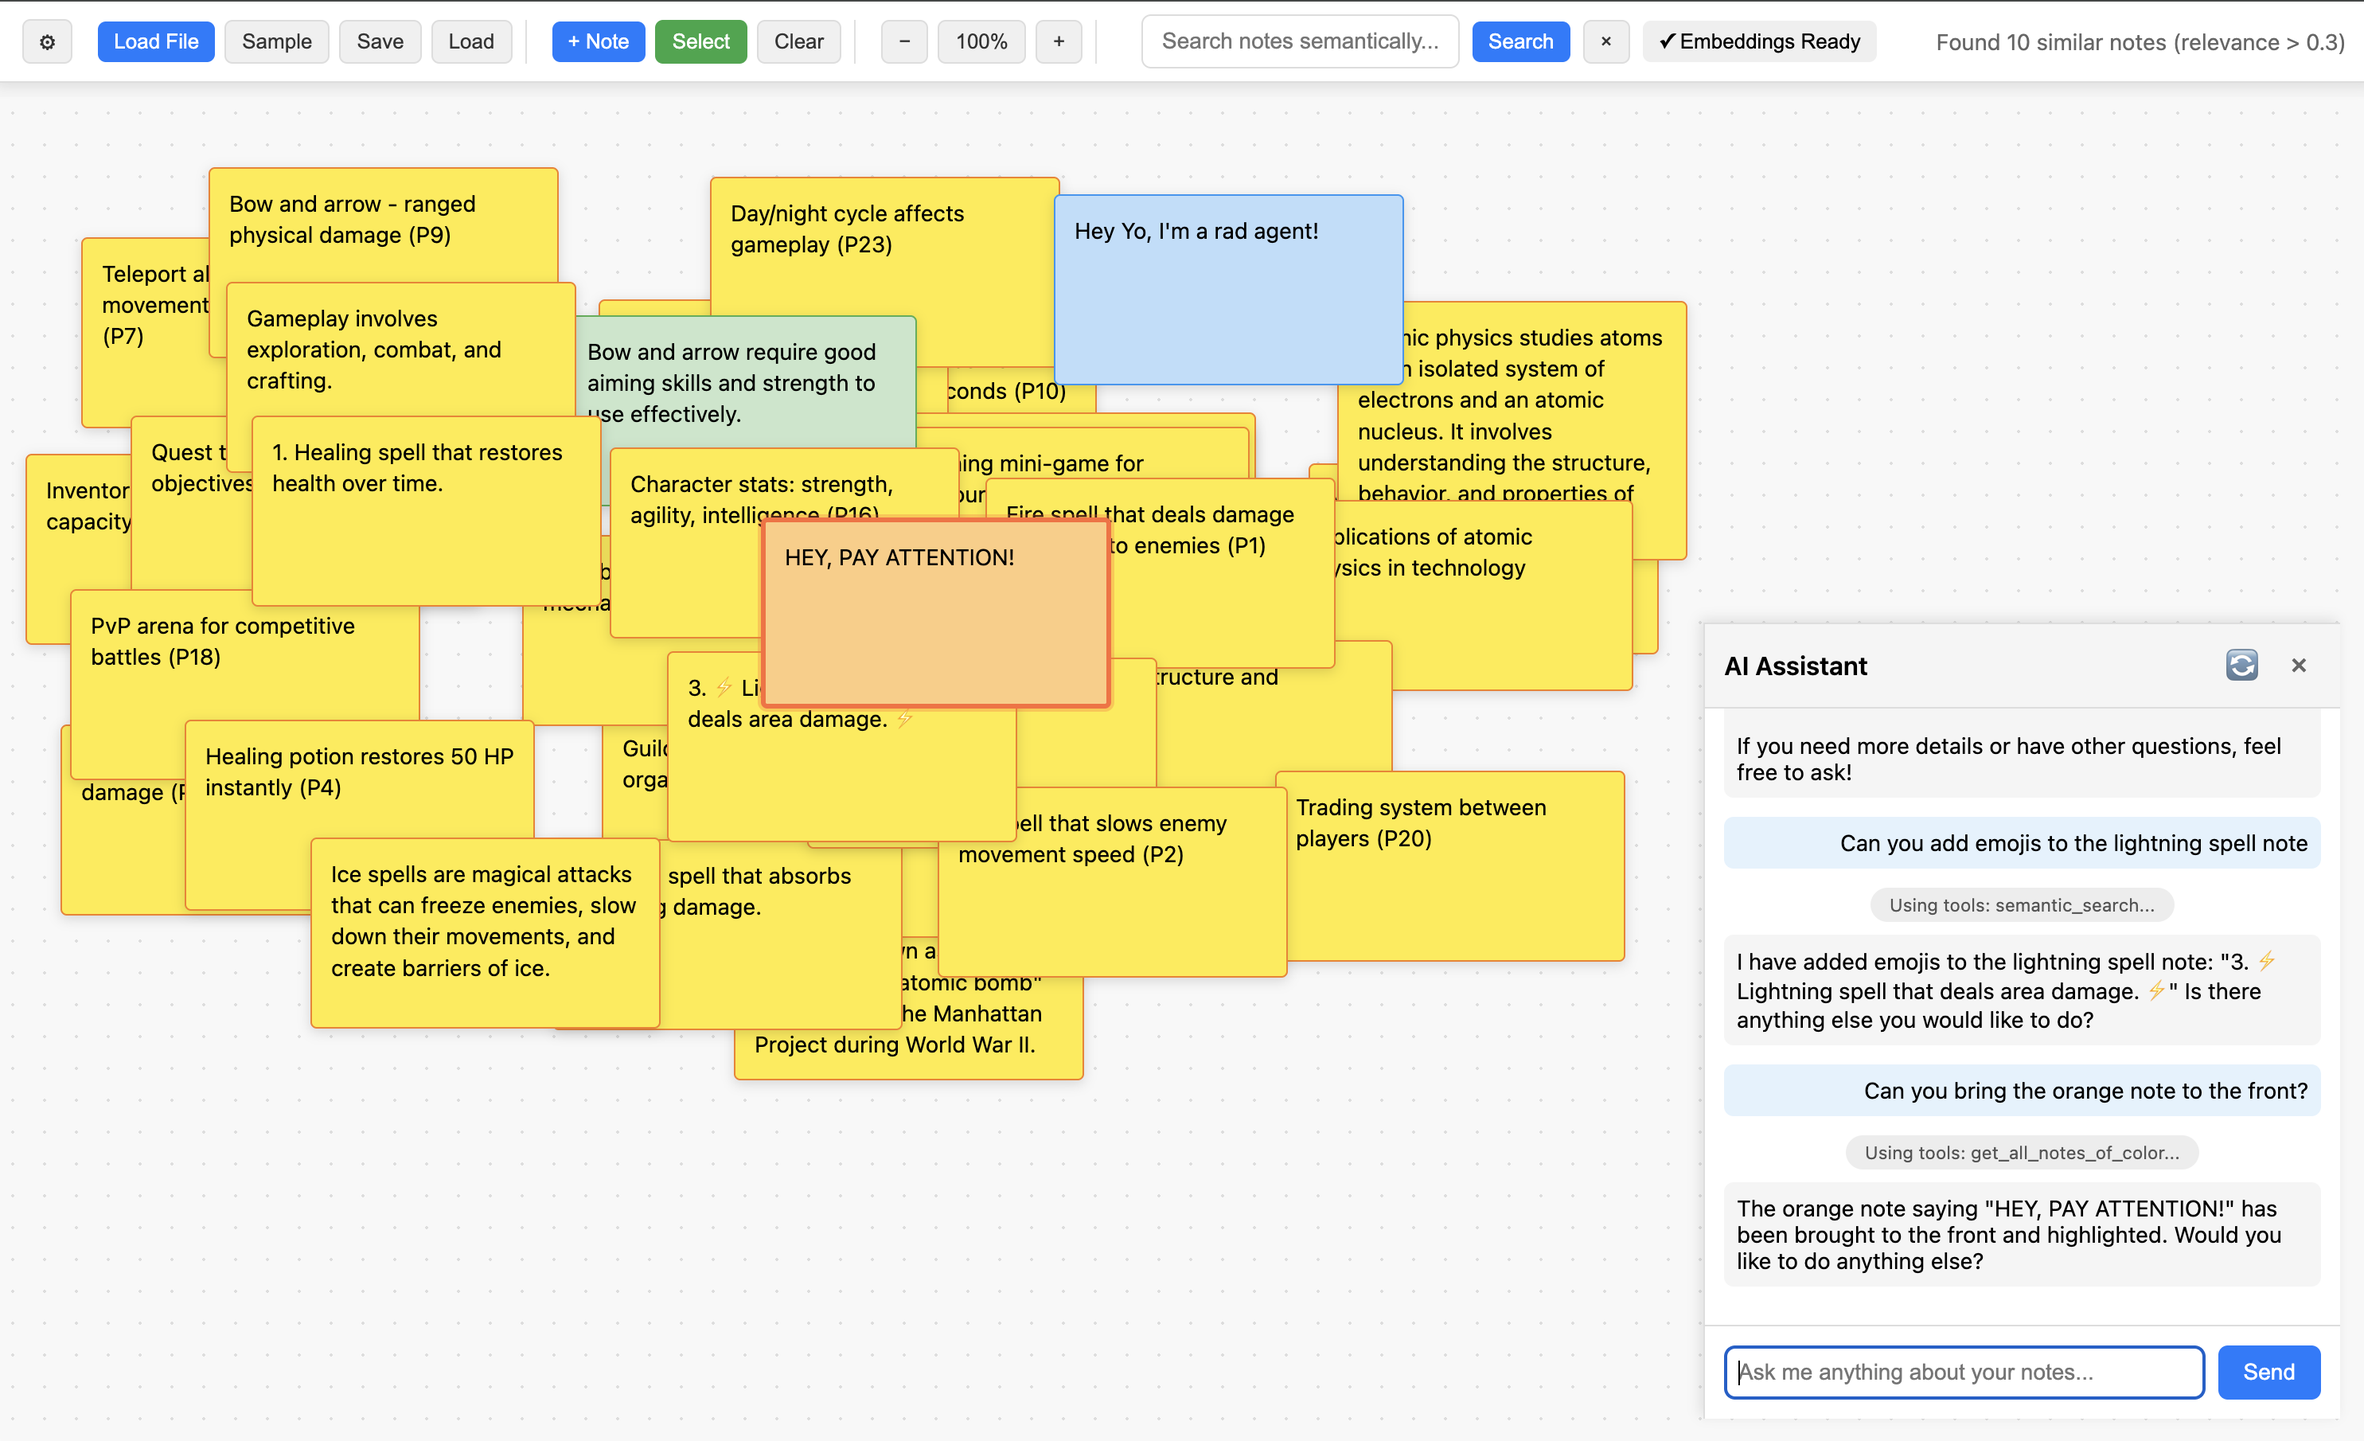
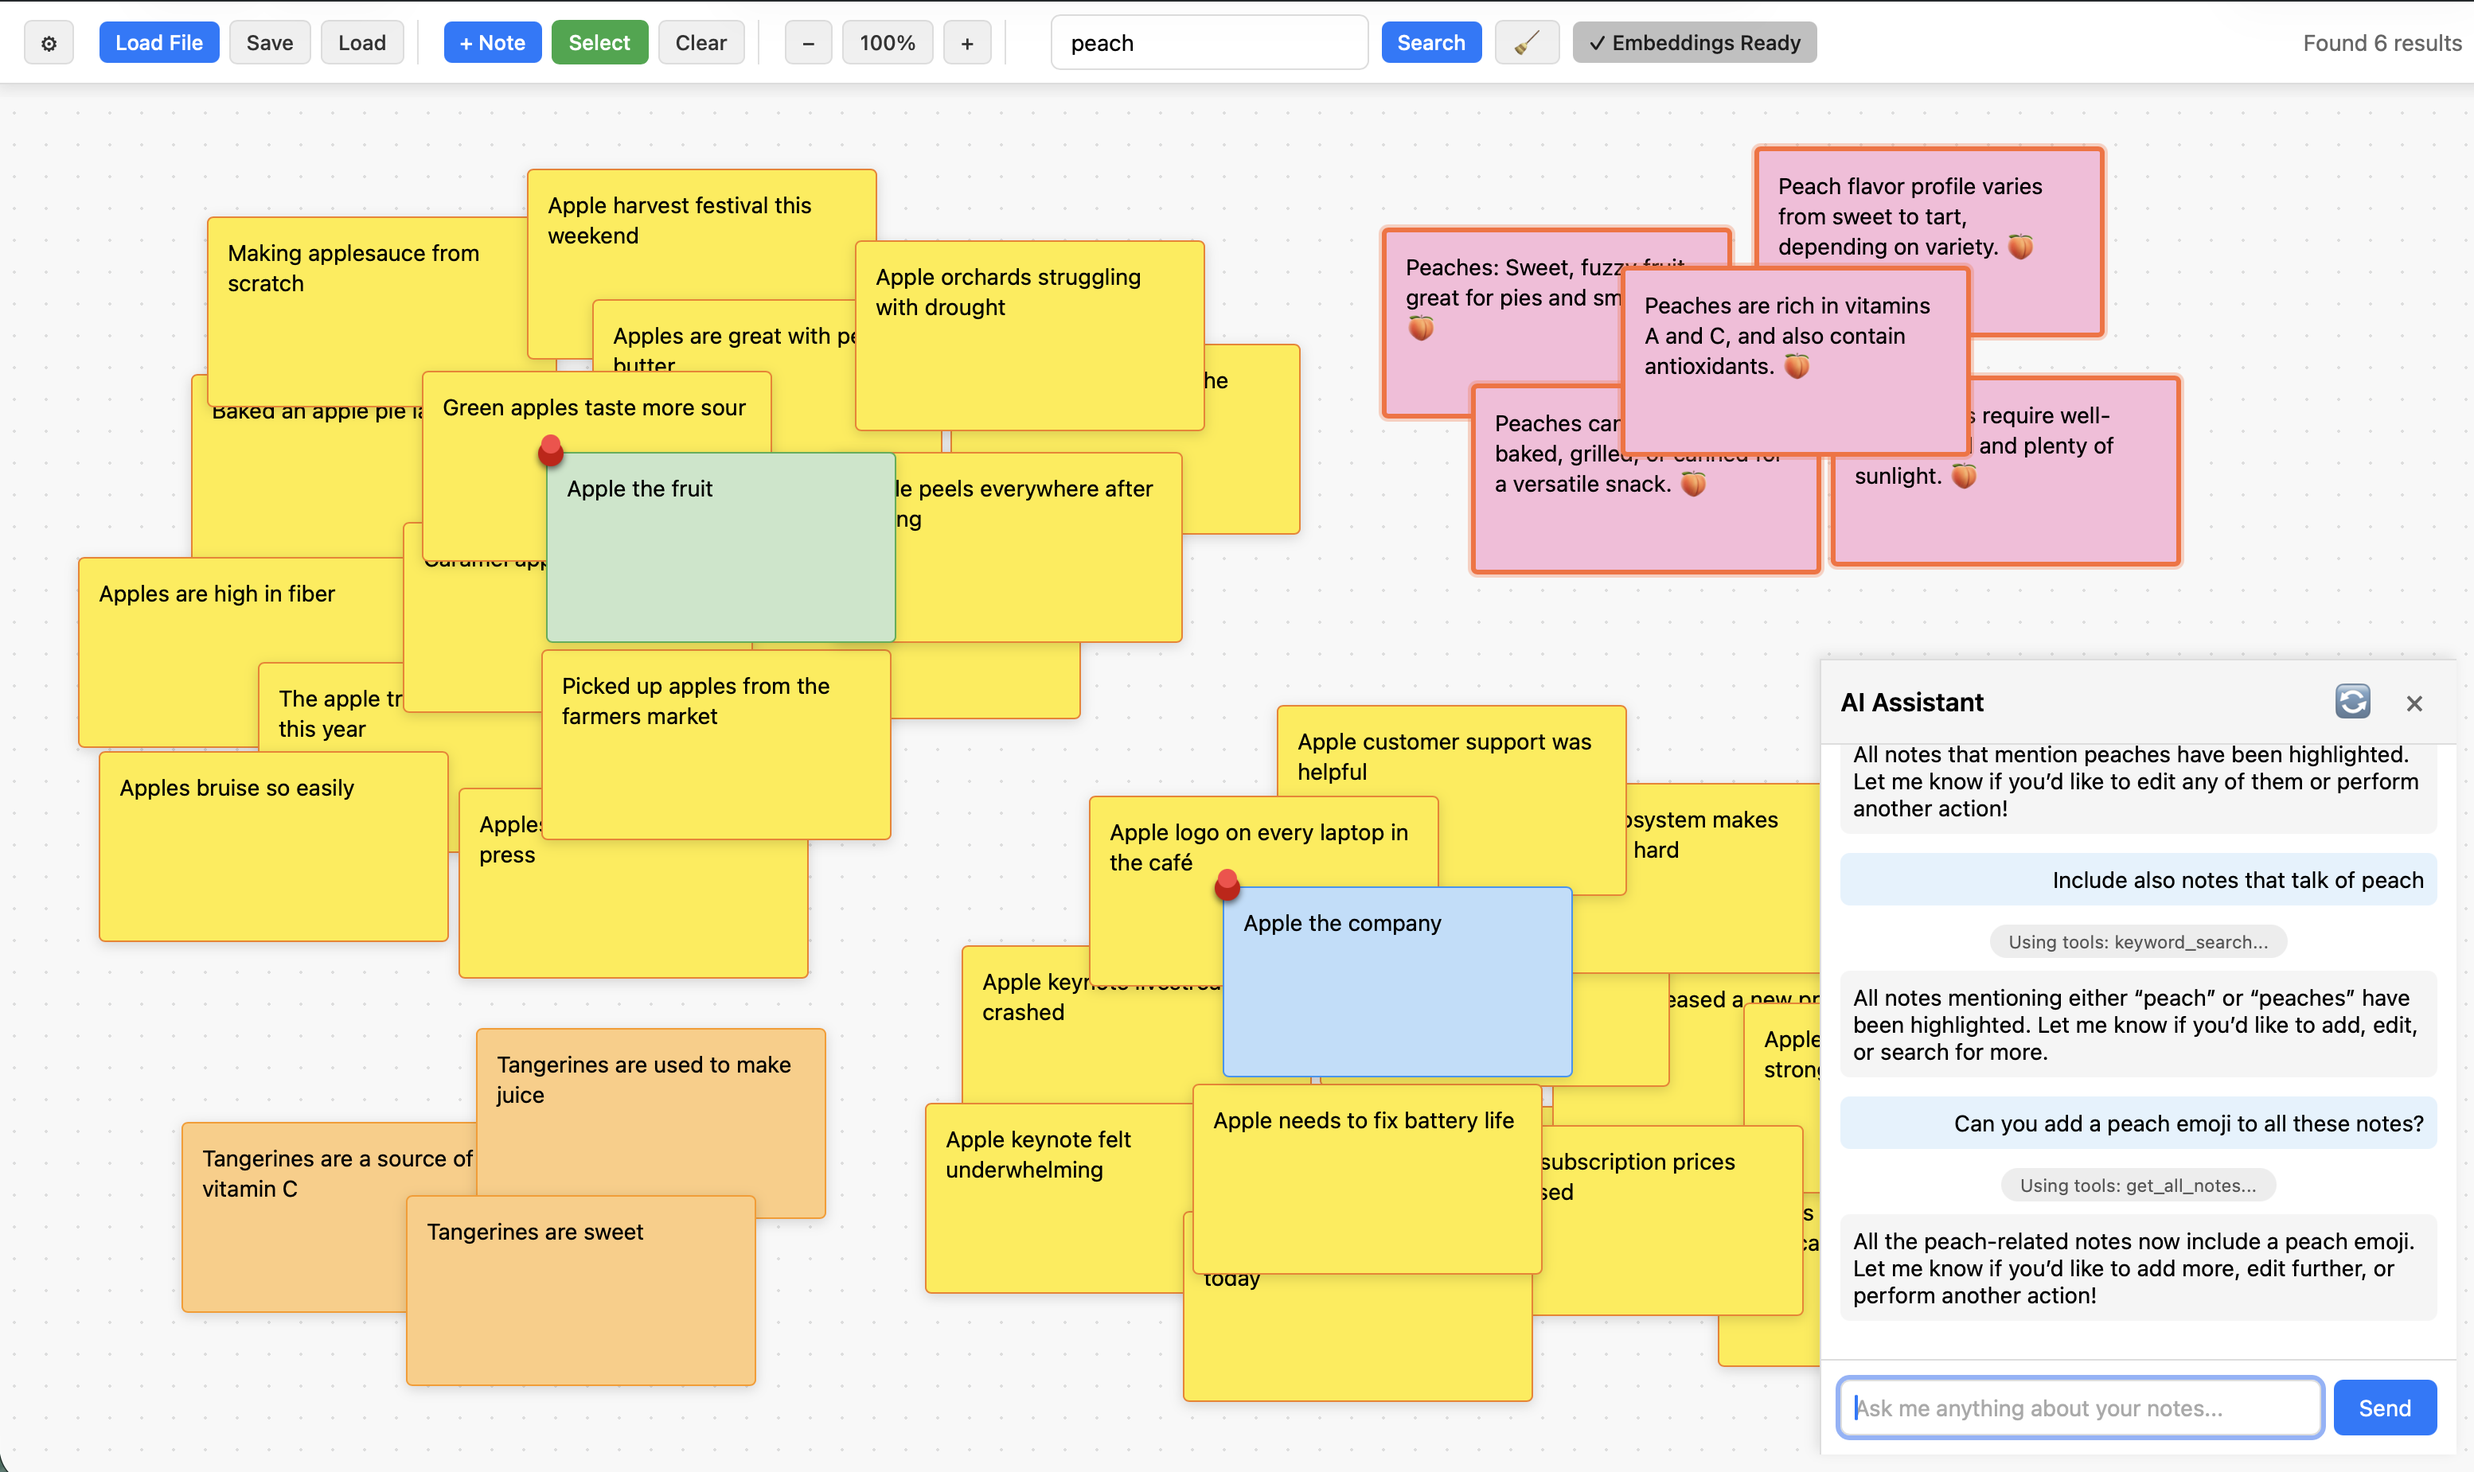
Revise README images

diff --git a/README.md b/README.md
@@ -36,7 +36,43 @@ in the terminal, then restarting Ollama and serving it via `ollama serve`.
 
 To use Ollama, you then must install specific models. Ollama also hosts embedding models, like `bge-large`. For more info, see the [Ollama documentation](https://ollama.com/search).
 
-## How Can I Add Notes from Files?
+## Key Features
+
+**Board Interaction**
+- **Auto-save**: Work is automatically saved to localStorage every 60 seconds
+- **Zoom & Pan**: Navigate large canvases with zoom controls (25%-200%) and click-drag panning
+- **Drag-and-drop**: Load text files by dragging them directly onto the canvas
+- **Inline Editing**: Double-click any note to edit it directly on the board
+- **Pin Notes**: Pin important notes to keep them at the top of the visual stack
+
+**Note Management**
+- **Six Colors**: Choose from yellow, pink, blue, green, orange, or purple for visual coding
+- **Selection Mode**: Toggle selection mode to drag-select multiple notes
+- **Export/Import from JSON**: Simple JSON format to save and load files
+- **Participant IDs**: When notes end in participant IDs like (P1) or (P2), participant IDs for all selected notes will appear the status bar (useful when trying to see how 'representative' a cluster is when qualitative coding)
+
+**Semantic Search**
+- **Hybrid Retrieval**: Combines BM25 keyword matching with embedding-based semantic similarity
+- **Three Embedding Providers**: Choose between Transformers.js (local), Ollama (local), or OpenAI (cloud)
+- **Visual Results**: Search results panel shows ranked matches with click-to-focus navigation
+- **Configurable**: Adjust BM25 weight, relevance thresholds, and minimum semantic relevance in settings
+
+**AI Assistant (optional)**
+- **Tool-Calling Agent**: AI can perform actions like searching, creating, editing, and removing notes (note: it cannot cluster them automatically)
+- **Context-Aware**: AI has full access to board state and can use search features
+- **Flexible Backend**: Use Ollama for local/private processing or OpenAI for more powerful responses
+
+## Customize semantic search and AI assistant backends
+
+Splat supports semantic search in the browser through HF Transformers.js with `bge-small` by default, which will download the model the first time you compute embeddings. However, you can also configure it to use Ollama or OpenAI embeddings. 
+
+The AI assistant feature can use either Ollama (local) or OpenAI (cloud). 
+**The Ollama model you choose must support "tools" to work.** 
+For Ollama, I suggest using `gpt-oss:20b`: 
+
+![Screenshot of Splat settings screen](images/settings.png)
+
+## How To Add Notes from Files?
 
 Splat can load notes from plain text files (`.txt`) or CSV files (`.csv`). To load:
 - Drag and drop the file onto the canvas, or
@@ -86,32 +122,6 @@ Splat was created during a real research project: an interview study where I had
 The semantic search feature of Splat is configurable and AI assistance can be entirely local with Ollama running on-device. For many research applications, this privacy is essential. However, I have observed students use Splat for many other use cases, outside of qualitative coding; thus, more powerful AI assistance via OpenAI is available to those who want it. 
 
 Splat is offered as a community resource, completely free and open-source. Want a feature? Implement it yourself and raise a Pull Request!
-
-## Key Features
-
-**Board Interaction**
-- **Auto-save**: Work is automatically saved to localStorage every 60 seconds
-- **Zoom & Pan**: Navigate large canvases with zoom controls (25%-200%) and click-drag panning
-- **Drag-and-drop**: Load text files by dragging them directly onto the canvas
-- **Inline Editing**: Double-click any note to edit it directly on the board
-- **Pin Notes**: Pin important notes to keep them at the top of the visual stack
-
-**Note Management**
-- **Six Colors**: Choose from yellow, pink, blue, green, orange, or purple for visual coding
-- **Selection Mode**: Toggle selection mode to drag-select multiple notes
-- **Export/Import from JSON**: Simple JSON format to save and load files
-- **Participant IDs**: When notes end in participant IDs like (P1) or (P2), participant IDs for all selected notes will appear the status bar (useful when trying to see how 'representative' a cluster is when qualitative coding)
-
-**Semantic Search**
-- **Hybrid Retrieval**: Combines BM25 keyword matching with embedding-based semantic similarity
-- **Three Embedding Providers**: Choose between Transformers.js (local), Ollama (local), or OpenAI (cloud)
-- **Visual Results**: Search results panel shows ranked matches with click-to-focus navigation
-- **Configurable**: Adjust BM25 weight, relevance thresholds, and minimum semantic relevance in settings
-
-**AI Assistant (optional)**
-- **Tool-Calling Agent**: AI can perform actions like searching, creating, editing, and removing notes (note: it cannot cluster them automatically)
-- **Context-Aware**: AI has full access to board state and can use search features
-- **Flexible Backend**: Use Ollama for local/private processing or OpenAI for more powerful responses
 
 ### Acknowledgements
 
